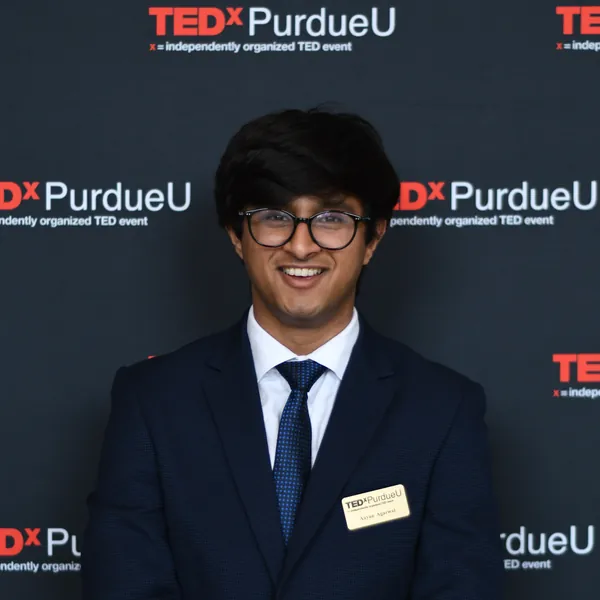
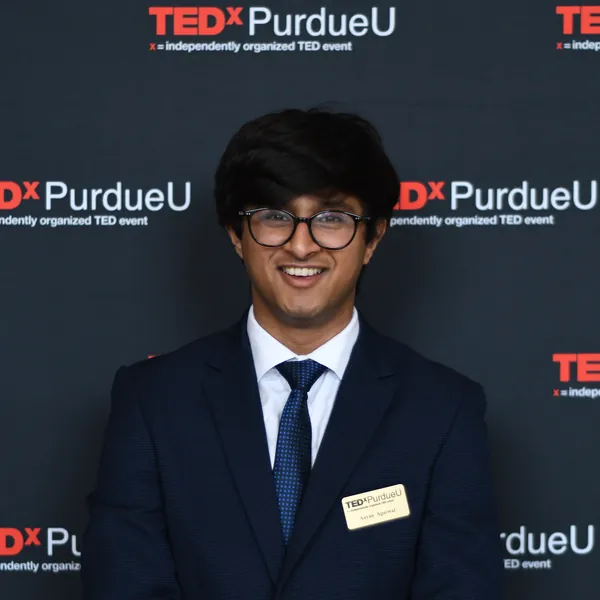
Add the five remaining headshots
Every roster tile now carries a photo, so the hatched placeholder no longer
appears on the page. Sources came in by hand rather than from Drive — the
folder behind the intake sheet's links is still unreadable from here.

Sophia's arrived as HEIC, which Pillow does not open; converted to JPEG on the
way into _originals/team.

Claude-Session: https://claude.ai/code/session_0132D7qE6NBMcW1MzjetaBW4

diff --git a/src/lib/team.js b/src/lib/team.js
@@ -12,9 +12,9 @@
  */
 export const team = [
 	{ name: 'Aayan Agarwal', role: 'President', photo: '/headshots/aayan-agarwal.webp' },
-	{ name: 'Ben Packer', role: 'Vice President', photo: null },
-	{ name: 'Sophia Smith', role: 'Marketing Director', photo: null },
-	{ name: 'Laiba Farooqi', role: 'Curations Chair', photo: null },
-	{ name: 'Alaina Salsaa', role: 'Salons Chair', photo: null },
-	{ name: 'Gia Sareen', role: 'Operations Chair', photo: null }
+	{ name: 'Ben Packer', role: 'Vice President', photo: '/headshots/ben-packer.webp' },
+	{ name: 'Sophia Smith', role: 'Marketing Director', photo: '/headshots/sophia-smith.webp' },
+	{ name: 'Laiba Farooqi', role: 'Curations Chair', photo: '/headshots/laiba-farooqi.webp' },
+	{ name: 'Alaina Salsaa', role: 'Salons Chair', photo: '/headshots/alaina-salsaa.webp' },
+	{ name: 'Gia Sareen', role: 'Operations Chair', photo: '/headshots/gia-sareen.webp' }
 ];
